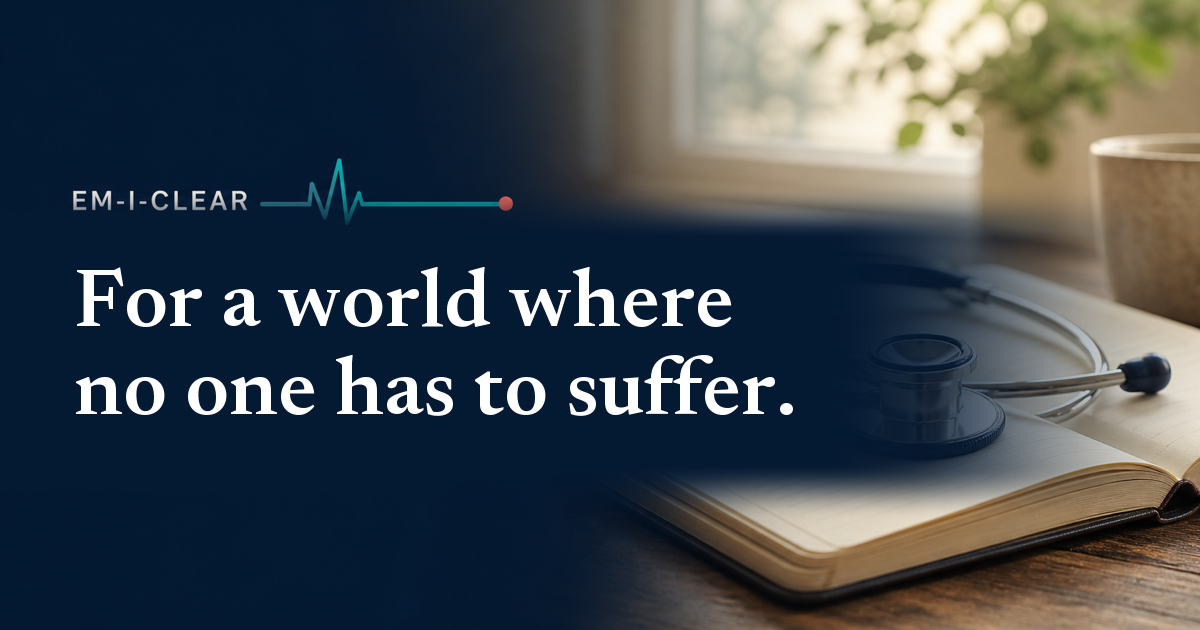
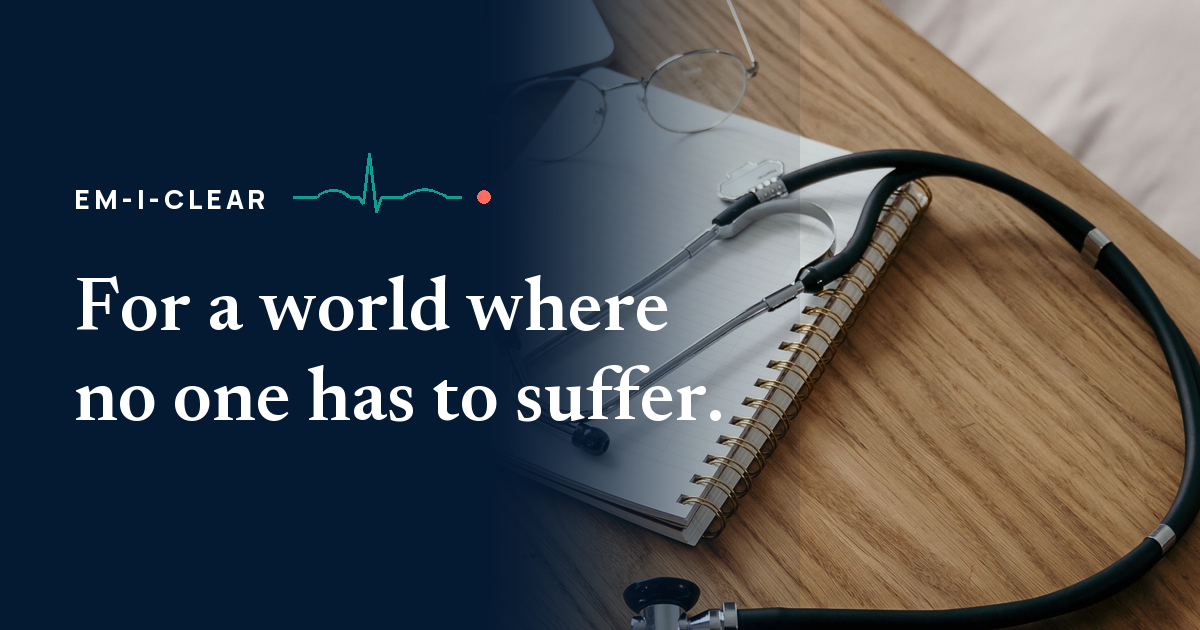
feat: rebuild OG images from source photo and brand assets

diff --git a/scripts/build-og.py b/scripts/build-og.py
@@ -1,0 +1,133 @@
+"""OG 이미지 합성 — 사진 + 좌측 그라디언트 + 워드마크/심전도 + 헤드라인.
+
+문구를 바꾸려면 맨 아래 build() 인자만 고치고 실행한다.
+필요한 가변 폰트는 저장소에 두지 않는다. 실행 전 같은 폴더에 내려받을 것:
+  NotoSerifKR.ttf  https://github.com/google/fonts/raw/main/ofl/notoserifkr/NotoSerifKR%5Bwght%5D.ttf
+  Newsreader.ttf   https://github.com/google/fonts/raw/main/ofl/newsreader/Newsreader%5Bopsz%2Cwght%5D.ttf
+  Manrope.ttf      https://github.com/google/fonts/raw/main/ofl/manrope/Manrope%5Bwght%5D.ttf
+
+모든 요소를 소스에서 다시 그리므로 문구는 언제든 바꿀 수 있다.
+심전도 파형은 public/brand/emiclear-mark.svg 의 path 를 그대로 옮긴 것이다.
+"""
+import math
+from PIL import Image, ImageDraw, ImageFont
+
+W, H = 1200, 630
+PHOTO = ("/Users/minkyo/Documents/Non-Profit/emiclear-site/public/images/"
+         "medical-desk-pexels-5407251.jpg")
+
+NAVY = (4, 25, 50)
+TEAL = (15, 157, 148)
+CORAL = (255, 107, 95)
+WHITE = (255, 255, 255)
+
+TEXT_X = 74
+WORD_BASE = 209          # 워드마크 베이스라인
+SIG_Y = 197              # 심전도 중심선
+HEAD_BASE = 330          # 헤드라인 첫 줄 베이스라인
+MAX_RIGHT = 726         # 헤드라인 오른쪽 한계
+
+GRAD_SOLID = 470        # 이 x까지 배경 완전 불투명
+GRAD_FADE = 330         # 이후 사진이 드러나는 폭
+
+
+def font(path, size, name):
+    f = ImageFont.truetype(path, size)
+    f.set_variation_by_name(name)
+    return f
+
+
+def ease(t):
+    return (1 - math.cos(math.pi * min(max(t, 0.0), 1.0))) / 2
+
+
+def base_image():
+    """사진을 1200x630으로 채우고 좌측 네이비 그라디언트를 얹는다."""
+    im = Image.open(PHOTO).convert("RGB")
+    # 청진기와 노트가 오른쪽에 오도록 아래쪽 중앙을 쓴다.
+    r = max(W / im.width, H / im.height)
+    im = im.resize((round(im.width * r), round(im.height * r)), Image.LANCZOS)
+    top = round(im.height * 0.30)
+    im = im.crop((0, top, W, top + H))
+
+    layer = Image.new("RGBA", (W, H), NAVY + (0,))
+    px = layer.load()
+    for x in range(W):
+        a = 1.0 if x <= GRAD_SOLID else 1 - ease((x - GRAD_SOLID) / GRAD_FADE)
+        if a <= 0:
+            continue
+        v = NAVY + (round(255 * (0.10 + 0.90 * a)),)   # 오른쪽도 살짝 눌러 통일감
+        for y in range(H):
+            px[x, y] = v
+    return Image.alpha_composite(im.convert("RGBA"), layer).convert("RGB")
+
+
+def quad(p0, p1, p2, n=18):
+    """2차 베지어를 점열로."""
+    return [(round((1 - t) ** 2 * p0[0] + 2 * (1 - t) * t * p1[0] + t * t * p2[0]),
+             round((1 - t) ** 2 * p0[1] + 2 * (1 - t) * t * p1[1] + t * t * p2[1]))
+            for t in (i / n for i in range(n + 1))]
+
+
+def draw_signal(d, x0, x1, cy, amp=0.52, width=3):
+    """emiclear-mark.svg 의 파형 path 를 x0~x1 구간에 옮겨 그린다.
+
+    원본 path 는 viewBox 128 기준 x31~99, 중심 y64, 끝에 x108 코럴 점.
+    가로 배너에서는 세로 진폭을 눌러야 가느다란 신호선으로 읽힌다.
+    """
+    s = (x1 - x0) / (99 - 31)
+    def X(v): return x0 + (v - 31) * s
+    def Y(v): return cy + (v - 64) * s * amp
+
+    pts = [(X(31), Y(64)), (X(40), Y(64))]
+    pts += quad((X(40), Y(64)), (X(47), Y(53)), (X(54), Y(64)))
+    pts += [(X(57.5), Y(64)), (X(59.5), Y(69)), (X(62), Y(30)),
+            (X(64.5), Y(76)), (X(66.5), Y(64)), (X(75), Y(64))]
+    pts += quad((X(75), Y(64)), (X(84), Y(52)), (X(93), Y(64)))
+    pts += [(X(99), Y(64))]
+    d.line(pts, fill=TEAL, width=width, joint="curve")
+
+    r = 6.5
+    cx, cyy = X(108), Y(64)
+    d.ellipse([cx - r, cyy - r, cx + r, cyy + r], fill=CORAL)
+
+
+def tracked(d, xy, text, f, fill, tracking):
+    x, y = xy
+    for ch in text:
+        d.text((x, y), ch, font=f, fill=fill, anchor="ls")
+        x += d.textlength(ch, font=f) + tracking
+    return x - tracking
+
+
+def fit(lines, path, name, start):
+    probe = ImageDraw.Draw(Image.new("RGB", (1, 1)))
+    for size in range(start, 30, -1):
+        f = font(path, size, name)
+        if TEXT_X + max(probe.textlength(l, font=f) for l in lines) <= MAX_RIGHT:
+            return f, size
+    raise SystemExit("맞는 크기 없음")
+
+
+def build(out, lines, serif, name, start, lh_ratio):
+    im = base_image()
+    d = ImageDraw.Draw(im)
+
+    end = tracked(d, (TEXT_X, WORD_BASE), "EM-I-CLEAR",
+                  font("Manrope.ttf", 27, "ExtraBold"), WHITE, 3.6)
+    draw_signal(d, end + 28, end + 196, SIG_Y)
+
+    f, size = fit(lines, serif, name, start)
+    lh = round(size * lh_ratio)
+    for i, ln in enumerate(lines):
+        d.text((TEXT_X, HEAD_BASE + i * lh), ln, font=f, fill=WHITE, anchor="ls")
+
+    im.save(out, quality=92)
+    print("%s  헤드라인 %dpx" % (out, size))
+
+
+if __name__ == "__main__":
+    build("../public/og.png", ["아무도 아프지 않은", "세상을 위해."],
+          "NotoSerifKR.ttf", "SemiBold", start=86, lh_ratio=1.26)
+    build("../public/og-en.png", ["For a world where", "no one has to suffer."],
+          "Newsreader.ttf", "SemiBold", start=100, lh_ratio=1.18)

diff --git a/ASSET_LICENSES.md b/ASSET_LICENSES.md
@@ -8,6 +8,14 @@ The following photographs are used under the [Pexels License](https://www.pexels
 - Photographer: Tima Miroshnichenko
 - Source: https://www.pexels.com/photo/stethoscope-and-notebook-on-desk-5407238/
 
+## Medical desk with stethoscope and notebook
+
+Background of the Open Graph share images (`public/og.png`, `public/og-en.png`).
+
+- File: `public/images/medical-desk-pexels-5407251.jpg`
+- Photographer: Tima Miroshnichenko
+- Source: https://www.pexels.com/photo/5407251/
+
 ## Empty classroom
 
 - File: `public/images/empty-classroom-pexels-30105084.jpg`
